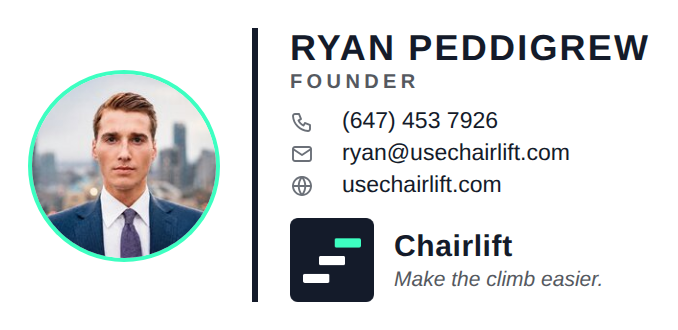
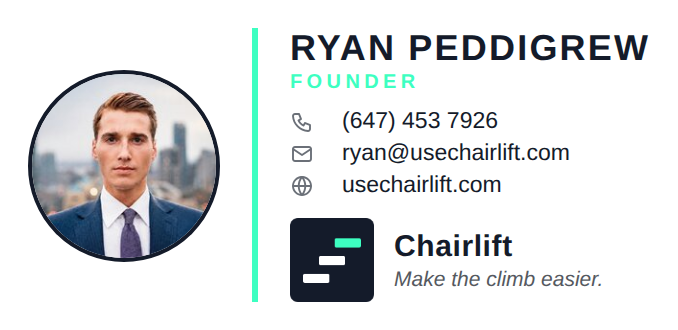
Signature colours: Ink ring, Neon line and label on White; white ring and line on Ink
Claude-Session: https://claude.ai/code/session_01PqypBjMi1UyX8TYwUtHGTE

diff --git a/brand/index.html b/brand/index.html
@@ -173,7 +173,7 @@
       <div class="dark-demo"><h3 style="font-size:15px;letter-spacing:.04em">Key word · Ink background</h3><p style="font-size:22px;font-weight:800;text-transform:uppercase;margin-top:8px">Journey to the <span class="n">top</span>.</p><p style="color:var(--fog);font-size:15px;margin-top:8px">Neon text, one word per title.</p></div>
     </div>
     <div class="do-dont" style="margin-top:20px">
-      <div class="do"><h3>Where Neon is used</h3><ul><li>The up arrow after "Make the climb easier"</li><li>One key word in a title (run itself, start, top, practice, people, hours)</li><li>The check mark next to "Built inside the tools you already use"</li><li>Link underlines</li><li>Small numbers and labels on Ink (step numbers, "After")</li><li>Ring around the headshot and the divider line in the Ink email signature (nothing else in the signature)</li><li>The top step of the logo</li></ul></div>
+      <div class="do"><h3>Where Neon is used</h3><ul><li>The up arrow after "Make the climb easier"</li><li>One key word in a title (run itself, start, top, practice, people, hours)</li><li>The check mark next to "Built inside the tools you already use"</li><li>Link underlines</li><li>Small numbers and labels on Ink (step numbers, "After")</li><li>Email signatures: the "FOUNDER" label in both versions; the divider line in the White version; the logo's top step. (Exception to the white-background text rule below, kept small and bold.)</li><li>The top step of the logo</li></ul></div>
       <div class="dont"><h3>Where Neon is not used</h3><ul><li>The short bars above titles (these are solid Ink, or white on Ink)</li><li>Body text, buttons or large areas</li><li>As text colour on white backgrounds</li><li>More than one accent word per title</li></ul></div>
     </div>
   </div>
@@ -213,8 +213,8 @@
   <div class="wrap">
     <div class="sec-head"><h2>Email signature <span class="tag">Confirmed</span></h2><p>Two versions with the same layout. Open the file in a browser, copy the signature and paste it into Titan → Settings → Signature.</p></div>
     <div class="grid">
-      <div class="tile sig"><img src="/brand/signature-white.png" alt="White email signature"><h3>White</h3><p>Ink divider line. Everyday email. Name in capitals, small soft-grey icons for phone, email and website.</p><a class="dl" href="/brand/email-signature-white.html">Open signature file</a></div>
-      <div class="tile sig"><img src="/brand/signature-ink.png" alt="Ink email signature"><h3>Ink</h3><p>Ink box with a Neon ring and divider. Stands out in outreach.</p><a class="dl" href="/brand/email-signature-ink.html">Open signature file</a></div>
+      <div class="tile sig"><img src="/brand/signature-white.png" alt="White email signature"><h3>White</h3><p>Midnight Ink ring around the headshot, Neon divider line and "FOUNDER". Everyday email. Name in capitals, small soft-grey icons for phone, email and website.</p><a class="dl" href="/brand/email-signature-white.html">Open signature file</a></div>
+      <div class="tile sig"><img src="/brand/signature-ink.png" alt="Ink email signature"><h3>Ink</h3><p>Ink box with a white ring and divider and a Neon "FOUNDER". Stands out in outreach.</p><a class="dl" href="/brand/email-signature-ink.html">Open signature file</a></div>
     </div>
   </div>
 </section>
@@ -243,6 +243,7 @@
   <div class="wrap">
     <div class="sec-head"><h2>Change log</h2><p>Every brand decision, newest first.</p></div>
     <ul class="log">
+      <li><b>Oct 4, 2026</b>: Signature colours set. White version: Midnight Ink headshot ring, Neon divider line and "FOUNDER". Ink version: white headshot ring and divider line, Neon "FOUNDER". Neon "FOUNDER" on white is a deliberate exception to the no-Neon-text-on-white rule.</li>
       <li><b>Oct 4, 2026</b>: Signature tightened: larger headshot, smaller contact text and icons, larger logo icon. Space above and below the headshot cut from 30px to 21px.</li>
       <li><b>Oct 4, 2026</b>: Signature layout locked: headshot on the left; name, role, contact icons and the Chairlift logo, name and italic slogan on the right at the bottom. Spacing tightened slightly. Logo files checked: only Midnight Ink, white and Neon are used (no pure black).</li>
       <li><b>Oct 4, 2026</b>: Signature: name in capitals (RYAN PEDDIGREW) as live text; M: / E: / W: replaced by small phone, email and website icons in soft grey (no Neon). Custom-font images dropped; email uses a system font stack.</li>

diff --git a/brand/email-signature-white.html b/brand/email-signature-white.html
@@ -13,11 +13,11 @@
       <table cellpadding="0" cellspacing="0" border="0" role="presentation" style="border-collapse:collapse;">
         <tr>
           <td style="vertical-align:middle;padding:0 16px 0 0;">
-            <img src="https://usechairlift.com/images/email-headshot.jpg" width="92" height="92" alt="Ryan Peddigrew" style="display:block;width:92px;height:92px;border-radius:48px;border:2px solid #3DFFC1;">
+            <img src="https://usechairlift.com/images/email-headshot.jpg" width="92" height="92" alt="Ryan Peddigrew" style="display:block;width:92px;height:92px;border-radius:48px;border:2px solid #141B2A;">
           </td>
-          <td style="vertical-align:middle;padding:0 0 0 16px;border-left:3px solid #141B2A;">
+          <td style="vertical-align:middle;padding:0 0 0 16px;border-left:3px solid #3DFFC1;">
             <p style="margin:0;font-size:18px;line-height:21px;font-weight:bold;letter-spacing:1.1px;color:#141B2A;white-space:nowrap;">RYAN PEDDIGREW</p>
-            <p style="margin:0;font-size:10px;line-height:13px;font-weight:bold;letter-spacing:2.2px;color:#55595F;">FOUNDER</p>
+            <p style="margin:0;font-size:10px;line-height:13px;font-weight:bold;letter-spacing:2.2px;color:#3DFFC1;">FOUNDER</p>
             <table cellpadding="0" cellspacing="0" border="0" role="presentation" style="border-collapse:collapse;margin-top:5px;">
               <tr><td style="width:19px;padding:0 7px 0 0;vertical-align:middle;"><img src="https://usechairlift.com/images/signature/icon-phone-white.png" width="12" height="12" alt="Phone" style="display:block;width:12px;height:12px;border:0;"></td><td style="font-size:11.5px;line-height:16px;vertical-align:middle;"><a href="tel:+16474537926" style="color:#141B2A;text-decoration:none;">(647) 453 7926</a></td></tr>
               <tr><td style="width:19px;padding:0 7px 0 0;vertical-align:middle;"><img src="https://usechairlift.com/images/signature/icon-mail-white.png" width="12" height="12" alt="Email" style="display:block;width:12px;height:12px;border:0;"></td><td style="font-size:11.5px;line-height:16px;vertical-align:middle;"><a href="mailto:ryan@usechairlift.com" style="color:#141B2A;text-decoration:none;">ryan@usechairlift.com</a></td></tr>

diff --git a/brand/email-signature-ink.html b/brand/email-signature-ink.html
@@ -13,11 +13,11 @@
       <table cellpadding="0" cellspacing="0" border="0" role="presentation" style="border-collapse:collapse;">
         <tr>
           <td style="vertical-align:middle;padding:0 16px 0 0;">
-            <img src="https://usechairlift.com/images/email-headshot.jpg" width="92" height="92" alt="Ryan Peddigrew" style="display:block;width:92px;height:92px;border-radius:48px;border:2px solid #3DFFC1;">
+            <img src="https://usechairlift.com/images/email-headshot.jpg" width="92" height="92" alt="Ryan Peddigrew" style="display:block;width:92px;height:92px;border-radius:48px;border:2px solid #FFFFFF;">
           </td>
-          <td style="vertical-align:middle;padding:0 0 0 16px;border-left:3px solid #3DFFC1;">
+          <td style="vertical-align:middle;padding:0 0 0 16px;border-left:3px solid #FFFFFF;">
             <p style="margin:0;font-size:18px;line-height:21px;font-weight:bold;letter-spacing:1.1px;color:#FFFFFF;white-space:nowrap;">RYAN PEDDIGREW</p>
-            <p style="margin:0;font-size:10px;line-height:13px;font-weight:bold;letter-spacing:2.2px;color:#B9C0CC;">FOUNDER</p>
+            <p style="margin:0;font-size:10px;line-height:13px;font-weight:bold;letter-spacing:2.2px;color:#3DFFC1;">FOUNDER</p>
             <table cellpadding="0" cellspacing="0" border="0" role="presentation" style="border-collapse:collapse;margin-top:5px;">
               <tr><td style="width:19px;padding:0 7px 0 0;vertical-align:middle;"><img src="https://usechairlift.com/images/signature/icon-phone-ink.png" width="12" height="12" alt="Phone" style="display:block;width:12px;height:12px;border:0;"></td><td style="font-size:11.5px;line-height:16px;vertical-align:middle;"><a href="tel:+16474537926" style="color:#FFFFFF;text-decoration:none;">(647) 453 7926</a></td></tr>
               <tr><td style="width:19px;padding:0 7px 0 0;vertical-align:middle;"><img src="https://usechairlift.com/images/signature/icon-mail-ink.png" width="12" height="12" alt="Email" style="display:block;width:12px;height:12px;border:0;"></td><td style="font-size:11.5px;line-height:16px;vertical-align:middle;"><a href="mailto:ryan@usechairlift.com" style="color:#FFFFFF;text-decoration:none;">ryan@usechairlift.com</a></td></tr>

diff --git a/tools/signature.py b/tools/signature.py
@@ -9,8 +9,9 @@ def sig(dark):
     t = "ink" if dark else "white"
     bg = "#141B2A" if dark else "#FFFFFF"
     text = "#FFFFFF" if dark else "#141B2A"
-    line = "#3DFFC1" if dark else "#141B2A"
-    role = "#B9C0CC" if dark else "#55595F"
+    line = "#FFFFFF" if dark else "#3DFFC1"
+    ring = "#FFFFFF" if dark else "#141B2A"
+    role = "#3DFFC1"
     tag = "#B9C0CC" if dark else "#55595F"
     logo = "email-logo-dark.png" if dark else "email-logo.png"
     pad = "22px 26px" if dark else "0"
@@ -38,7 +39,7 @@ def sig(dark):
       <table cellpadding="0" cellspacing="0" border="0" role="presentation" style="border-collapse:collapse;">
         <tr>
           <td style="vertical-align:middle;padding:0 16px 0 0;">
-            <img src="{BASE}/email-headshot.jpg" width="92" height="92" alt="Ryan Peddigrew" style="display:block;width:92px;height:92px;border-radius:48px;border:2px solid #3DFFC1;">
+            <img src="{BASE}/email-headshot.jpg" width="92" height="92" alt="Ryan Peddigrew" style="display:block;width:92px;height:92px;border-radius:48px;border:2px solid {ring};">
           </td>
           <td style="vertical-align:middle;padding:0 0 0 16px;border-left:3px solid {line};">
             <p style="margin:0;font-size:18px;line-height:21px;font-weight:bold;letter-spacing:1.1px;color:{text};white-space:nowrap;">RYAN PEDDIGREW</p>
